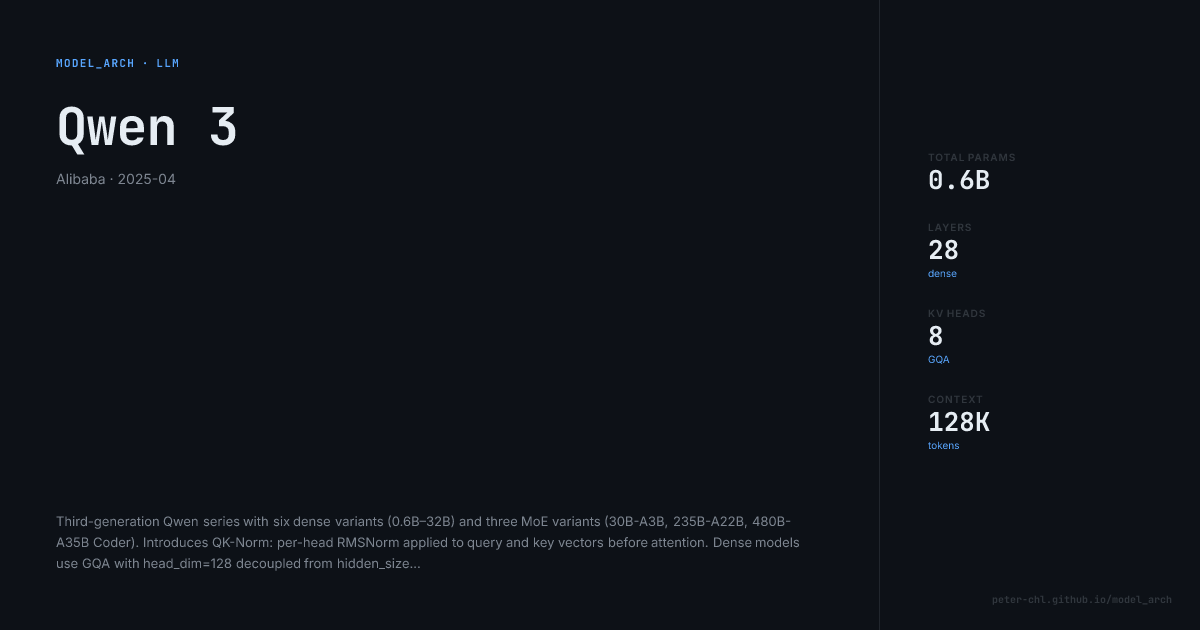
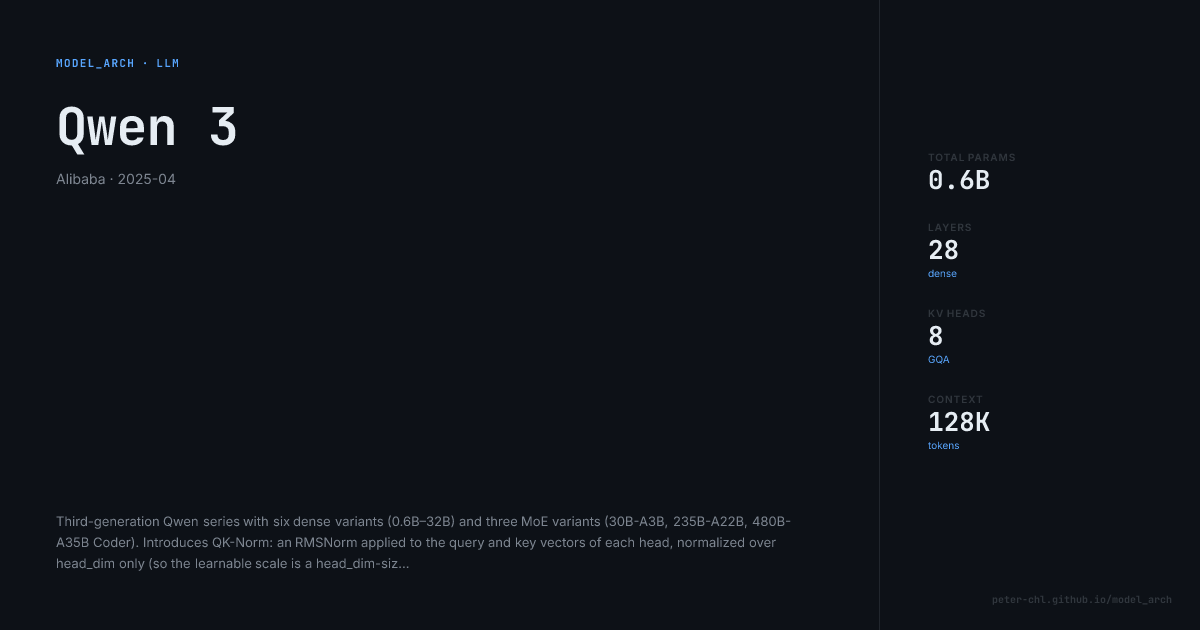
Explain RoPE and QK-Norm properly on Qwen3
QK-Norm was named in Qwen3's description but never modeled: it had no
config field, contributed no parameters, and had no formula anywhere.
RoPE was worse — "RoPE + YaRN" was an inert config string, and the GQA
explanation jumped from the Q/K/V projections straight to
softmax(QK^T/sqrt(d))V with no mention of where position enters.

- Add qk_norm, attention_bias, rope_theta, native_seq_len to ModelConfig
- Add qk_norm and rope component types with full derivations: QK-Norm as
  per-head RMSNorm over head_dim (not hidden_size) applied between the
  Q/K projections and RoPE; RoPE with its frequency schedule, the 2x2
  rotation, and the relative-position property that motivates it
- Emit QK-Norm as a real attention sublayer (2 x head_dim params/layer)
  and count QKV projection bias when a model carries it
- Show RoPE in the GQA and MHA formula chains, applied to Q and K only
- Add a Positional Encoding section covering the model's theta base and,
  for YaRN models, the NTK-by-parts rescaling and why it is a
  serving-time change rather than part of the pretrained weights
- Report max_seq_len as native vs extended when the two differ, so 131072
  is no longer presented as the pretrained context
- Set the new fields across all nine Qwen3 variants and note that
  head_dim x num_heads (8192) exceeds hidden_size, leaving Q and O
  non-square

Verified in-browser: Layer 3 of the 32B shows QK-Norm at 256 params with
[…]

Changed region(s): [[0.0617, 0.8444, 0.6783, 0.9048]]

diff --git a/src/app/models/[slug]/ModelViewer.tsx b/src/app/models/[slug]/ModelViewer.tsx
@@ -13,6 +13,8 @@ import type { ModelFamily, ModelConfig, MoEConfig, MLAConfig, HybridAttentionCon
 type ComponentType =
   | "rmsnorm"
   | "layernorm"
+  | "qk_norm"
+  | "rope"
   | "gqa"
   | "mha"
   | "mla"
@@ -134,6 +136,58 @@ const operationDetails: Record<
       },
     ],
   },
+  qk_norm: {
+    title: "QK-Norm (Query–Key Normalization)",
+    operation:
+      "Applies RMSNorm to the query and key vectors of each head, after the Q/K projections but before RoPE. Normalization is over the head dimension only — each head is normalized independently, so the learnable scale is a vector of size head_dim, not hidden_size. This bounds the magnitude of Q and K, keeping the pre-softmax logits QKᵀ/√d_h from growing large enough to saturate the softmax and destabilize training. Qwen3 adopts QK-Norm and, in exchange, drops the Q/K/V projection biases that Qwen2 carried.",
+    formula: [
+      { type: "text", content: "Project, split into heads, then normalize each head independently:" },
+      {
+        type: "latex",
+        content: String.raw`\begin{aligned}
+\mathbf{Q} &= \text{RMSNorm}_{d_h}\bigl(\text{reshape}(\mathbf{x} W_Q)\bigr) \cdot \boldsymbol{\gamma}_q \quad &\in \mathbb{R}^{B \times h \times S \times d_h} \\
+\mathbf{K} &= \text{RMSNorm}_{d_h}\bigl(\text{reshape}(\mathbf{x} W_K)\bigr) \cdot \boldsymbol{\gamma}_k \quad &\in \mathbb{R}^{B \times h_{kv} \times S \times d_h}
+\end{aligned}`,
+      },
+      { type: "text", content: "Normalization is over the last axis (head_dim) only:" },
+      {
+        type: "latex",
+        content: String.raw`\text{RMSNorm}_{d_h}(\mathbf{u}) = \frac{\mathbf{u}}{\sqrt{\frac{1}{d_h}\sum_{j=1}^{d_h} u_j^2 + \epsilon}}`,
+      },
+      {
+        type: "text",
+        content:
+          "γ_q and γ_k are learnable vectors of size [head_dim], shared across all heads — 2 × head_dim parameters per layer, a negligible cost. V is left un-normalized. RoPE is applied after this step.",
+      },
+    ],
+  },
+  rope: {
+    title: "RoPE (Rotary Position Embedding)",
+    operation:
+      "Injects position by rotating each consecutive pair of dimensions in Q and K by an angle proportional to the token's absolute position. Because a dot product between two rotated vectors depends only on the difference of their rotation angles, attention scores end up a function of relative position (m − n) — absolute positions are never stored, yet relative distance is encoded exactly. RoPE adds no parameters and is applied to Q and K only, never to V.",
+    formula: [
+      { type: "text", content: "Per-dimension-pair frequencies, set by the base θ (rope_theta):" },
+      {
+        type: "latex",
+        content: String.raw`\theta_i = \theta_{\text{base}}^{-2i/d_h}, \qquad i = 0, 1, \dots, \tfrac{d_h}{2}-1`,
+      },
+      { type: "text", content: "Each 2D pair at position m is rotated by m·θᵢ:" },
+      {
+        type: "latex",
+        content: String.raw`\begin{pmatrix} x'_{2i} \\ x'_{2i+1} \end{pmatrix} = \begin{pmatrix} \cos m\theta_i & -\sin m\theta_i \\ \sin m\theta_i & \cos m\theta_i \end{pmatrix} \begin{pmatrix} x_{2i} \\ x_{2i+1} \end{pmatrix}`,
+      },
+      { type: "text", content: "The relative-position property that makes this work:" },
+      {
+        type: "latex",
+        content: String.raw`\langle \text{RoPE}(\mathbf{q}, m),\; \text{RoPE}(\mathbf{k}, n) \rangle = f(\mathbf{q}, \mathbf{k},\, m - n)`,
+      },
+      {
+        type: "text",
+        content:
+          "Low i gives high-frequency rotations that resolve nearby tokens; high i gives long-wavelength rotations that carry long-range position. A larger θ_base lengthens all wavelengths, which is why long-context models raise it (Qwen3 uses 1,000,000 vs 10,000 in the original formulation).",
+      },
+    ],
+  },
   mha: {
     title: "Multi-Head Attention",
     operation:
@@ -146,6 +200,14 @@ const operationDetails: Record<
 \mathbf{K} &= \mathbf{x} \cdot W_K \quad &\in \mathbb{R}^{B \times S \times (h \cdot d_h)} \\
 \mathbf{V} &= \mathbf{x} \cdot W_V \quad &\in \mathbb{R}^{B \times S \times (h \cdot d_h)}
 \end{aligned}`,
+      },
+      {
+        type: "text",
+        content: "Q and K are rotated by RoPE before the attention product (V is not):",
+      },
+      {
+        type: "latex",
+        content: String.raw`\mathbf{Q} \leftarrow \text{RoPE}(\mathbf{Q}), \qquad \mathbf{K} \leftarrow \text{RoPE}(\mathbf{K})`,
       },
       {
         type: "latex",
@@ -176,12 +238,26 @@ const operationDetails: Record<
           "Each KV head is shared across (h / h_kv) query heads, reducing KV cache by that factor.",
       },
       {
+        type: "text",
+        content:
+          "Position is then injected by rotating Q and K with RoPE (V is left untouched), so the attention logits depend on relative offset m − n:",
+      },
+      {
+        type: "latex",
+        content: String.raw`\mathbf{Q} \leftarrow \text{RoPE}(\mathbf{Q}), \qquad \mathbf{K} \leftarrow \text{RoPE}(\mathbf{K})`,
+      },
+      {
         type: "latex",
         content: String.raw`\text{Attention}(Q, K, V) = \text{softmax}\!\left(\frac{QK^\top}{\sqrt{d_h}}\right) V`,
       },
       {
         type: "latex",
         content: String.raw`\text{Output} = \text{Concat}(\text{all heads}) \cdot W_O`,
+      },
+      {
+        type: "text",
+        content:
+          "Models using QK-Norm insert a per-head RMSNorm on Q and K between the projections and RoPE — see the QK-Norm sublayer for details.",
       },
     ],
   },
@@ -497,17 +573,39 @@ function calcGQAAttention(c: ModelConfig): SubLayerInfo {
   const k = d * kvh * dh;
   const v = d * kvh * dh;
   const o = h * dh * d;
+  const bias = c.attention_bias ? h * dh + 2 * kvh * dh : 0;
   const isGQA = kvh < h;
   return {
     name: isGQA ? `GQA Attention (${h}h, ${kvh}kv)` : `MHA (${h} heads)`,
     component: isGQA ? "gqa" : "mha",
     dims: `Q:[${d}→${h * dh}] K:[${d}→${kvh * dh}] V:[${d}→${kvh * dh}] O:[${h * dh}→${d}]`,
-    params: q + k + v + o,
+    params: q + k + v + o + bias,
     paramBreakdown: [
       { label: "W_q", formula: fmul(d, h * dh), value: q },
       { label: "W_k", formula: fmul(d, kvh * dh), value: k },
       { label: "W_v", formula: fmul(d, kvh * dh), value: v },
       { label: "W_o", formula: fmul(h * dh, d), value: o },
+      ...(c.attention_bias
+        ? [{
+            label: "b_q + b_k + b_v (bias)",
+            formula: `${h * dh} + ${kvh * dh} + ${kvh * dh} = ${formatNumber(bias)}`,
+            value: bias,
+          }]
+        : []),
+    ],
+  };
+}
+
+function calcQKNorm(c: ModelConfig): SubLayerInfo {
+  const { head_dim: dh } = c;
+  return {
+    name: "QK-Norm (per-head RMSNorm on Q, K)",
+    component: "qk_norm",
+    dims: `q_norm:[${dh}] k_norm:[${dh}]`,
+    params: 2 * dh,
+    paramBreakdown: [
+      { label: "γ_q (q_norm)", formula: `${dh}`, value: dh },
+      { label: "γ_k (k_norm)", formula: `${dh}`, value: dh },
     ],
   };
 }
@@ -723,15 +821,18 @@ function generateLayers(c: ModelConfig): LayerInfo[] {
       attn = calcGQAAttention(c);
     }
     const ffn = isMoE ? calcMoEFFN(c, c.moe!) : calcDenseFFN(c);
+    // QK-Norm sits inside the attention block, between the Q/K projections and RoPE
+    const qkNorm = c.qk_norm && !c.mla ? calcQKNorm(c) : null;
     layers.push({
       index: idx++,
       name: `Layer ${i}${attnLabel}`,
       type: "transformer",
       variant: isMoE ? "moe" : "dense",
-      params: attn.params + ffn.params + norm.params * 2,
+      params: attn.params + ffn.params + norm.params * 2 + (qkNorm?.params ?? 0),
       sublayers: [
         { ...norm, name: `${c.norm} (pre-attn)` },
         attn,
+        ...(qkNorm ? [qkNorm] : []),
         { ...norm, name: `${c.norm} (pre-FFN)` },
         ffn,
       ],
@@ -1640,10 +1741,15 @@ export default function ModelViewer({ model }: { model: ModelFamily }) {
     ...(config.deltanet ? [] : config.num_kv_heads > 0 ? [["KV heads", config.num_kv_heads.toString()]] : []),
     ...(config.deltanet ? [] : [["Head dim", config.head_dim.toString()]]),
     ["FFN dim", formatNumber(config.intermediate_size)],
-    ["Max seq len", formatNumber(config.max_seq_len)],
+    ["Max seq len", config.native_seq_len
+      ? `${formatNumber(config.native_seq_len)} native / ${formatNumber(config.max_seq_len)} extended`
+      : formatNumber(config.max_seq_len)],
     ["Norm", config.norm],
     ["Activation", config.activation],
     ["Pos encoding", config.pos_encoding],
+    ...(config.rope_theta ? [["RoPE θ base", formatNumber(config.rope_theta)]] : []),
+    ...(config.qk_norm !== undefined ? [["QK-Norm", config.qk_norm ? "Yes (RMSNorm over head_dim)" : "No"]] : []),
+    ...(config.attention_bias !== undefined ? [["QKV bias", config.attention_bias ? "Yes" : "No"]] : []),
     ["Tie embeddings", config.tie_embeddings ? "Yes" : "No"],
     ...(config.mla ? [
       ["KV LoRA rank", config.mla.kv_lora_rank.toString()],
@@ -1817,6 +1923,61 @@ export default function ModelViewer({ model }: { model: ModelFamily }) {
                       <p className="font-mono text-sm text-foreground">{value}</p>
                     </div>
                   ))}
+                </div>
+              </details>
+            )}
+
+            {config && /rope/i.test(config.pos_encoding) && (
+              <details className="mb-8 group">
+                <summary className="cursor-pointer text-sm font-semibold uppercase tracking-widest text-muted hover:text-foreground transition-colors">
+                  Positional Encoding — {config.pos_encoding}
+                </summary>
+                <div className="mt-4 rounded-lg border border-border bg-surface p-4">
+                  <p className="mb-3 text-xs leading-relaxed text-muted">
+                    {operationDetails.rope.operation}
+                  </p>
+                  <FormulaRenderer blocks={operationDetails.rope.formula} />
+                  {config.rope_theta && (
+                    <p className="mt-3 text-xs text-muted">
+                      This model uses θ_base = {formatNumber(config.rope_theta)}
+                      {config.head_dim ? `, giving ${config.head_dim / 2} distinct rotation frequencies across the ${config.head_dim}-dim head.` : "."}
+                    </p>
+                  )}
+                  {/yarn/i.test(config.pos_encoding) && (
+                    <div className="mt-4 border-t border-border pt-4">
+                      <p className="mb-2 text-xs font-semibold uppercase tracking-wider text-muted">
+                        YaRN Context Extension
+                      </p>
+                      <p className="mb-3 text-xs leading-relaxed text-muted">
+                        YaRN is an inference-time modification, not part of the pretrained weights — the
+                        released checkpoint is trained at the native length and YaRN is enabled in the
+                        serving config to reach the extended window. It rescales RoPE frequencies
+                        unevenly (NTK-by-parts): high-frequency dimensions, which complete many rotations
+                        within the original context, are left alone to preserve local precision, while
+                        low-frequency dimensions are interpolated by the scale factor s so they still span
+                        the longer window.
+                      </p>
+                      <FormulaRenderer
+                        blocks={[
+                          {
+                            type: "latex",
+                            content: String.raw`\theta_i' = \theta_i \left( \frac{1 - \gamma_i}{s} + \gamma_i \right), \qquad s = \frac{L_{\text{extended}}}{L_{\text{native}}}`,
+                          },
+                          {
+                            type: "text",
+                            content:
+                              "γᵢ ∈ [0,1] is a ramp over each dimension's rotation count at the native length — 1 for high-frequency dims (unchanged), 0 for low-frequency dims (fully interpolated to θᵢ/s). YaRN additionally applies a temperature correction to the attention logits to offset the entropy change from a longer context.",
+                          },
+                        ]}
+                      />
+                      {config.native_seq_len && (
+                        <p className="mt-3 text-xs text-muted">
+                          Here s = {formatNumber(config.max_seq_len)} / {formatNumber(config.native_seq_len)} ={" "}
+                          {(config.max_seq_len / config.native_seq_len).toFixed(0)}×.
+                        </p>
+                      )}
+                    </div>
+                  )}
                 </div>
               </details>
             )}

diff --git a/src/data/models/qwen-3.ts b/src/data/models/qwen-3.ts
@@ -7,7 +7,7 @@ export const qwen3: ModelFamily = {
   category: "llm",
   releaseDate: "2025-04",
   description:
-    "Third-generation Qwen series with six dense variants (0.6B–32B) and three MoE variants (30B-A3B, 235B-A22B, 480B-A35B Coder). Introduces QK-Norm: per-head RMSNorm applied to query and key vectors before attention. Dense models use GQA with head_dim=128 decoupled from hidden_size; embedding weights are tied in the three smaller sizes (0.6B–4B). All MoE variants route over 128 or 160 experts with 8 active per token, applying MoE across every layer with no dense-FFN bypass. Context extended to 128K tokens via YaRN. Dense and instruct variants support thinking (chain-of-thought) and non-thinking mode switching at inference time.",
+    "Third-generation Qwen series with six dense variants (0.6B–32B) and three MoE variants (30B-A3B, 235B-A22B, 480B-A35B Coder). Introduces QK-Norm: an RMSNorm applied to the query and key vectors of each head, normalized over head_dim only (so the learnable scale is a head_dim-sized vector, not hidden_size) and inserted between the Q/K projections and RoPE. This replaces the Q/K/V projection biases that Qwen2 carried, bounding the pre-softmax logits so the softmax cannot saturate. Dense models use GQA with head_dim=128 decoupled from hidden_size — for the 32B, 64 heads × 128 = 8192 against a hidden size of 5120, so the Q and O projections are not square. All MoE variants route over 128 or 160 experts with 8 active per token, applying MoE across every layer with no dense-FFN bypass; embedding weights are tied in the three smaller sizes (0.6B–4B). RoPE uses a θ base of 1,000,000, and the natively pretrained 32,768-token context extends to 131,072 with YaRN enabled at inference — YaRN is a serving-time rescaling, not baked into the released weights. Dense and instruct variants support thinking (chain-of-thought) and non-thinking mode switching at inference time.",
   links: [
     { label: "Paper", url: "https://arxiv.org/abs/2505.09388" },
     { label: "HuggingFace", url: "https://huggingface.co/Qwen/Qwen3-235B-A22B" },
@@ -28,9 +28,13 @@ export const qwen3: ModelFamily = {
         head_dim: 128,
         intermediate_size: 3072,
         max_seq_len: 131072,
+        native_seq_len: 32768,
         norm: "RMSNorm",
         activation: "SwiGLU",
         pos_encoding: "RoPE + YaRN",
+        rope_theta: 1000000,
+        qk_norm: true,
+        attention_bias: false,
         tie_embeddings: true,
       },
     },
@@ -47,9 +51,13 @@ export const qwen3: ModelFamily = {
         head_dim: 128,
         intermediate_size: 6144,
         max_seq_len: 131072,
+        native_seq_len: 32768,
         norm: "RMSNorm",
         activation: "SwiGLU",
         pos_encoding: "RoPE + YaRN",
+        rope_theta: 1000000,
+        qk_norm: true,
+        attention_bias: false,
         tie_embeddings: true,
       },
     },
@@ -66,9 +74,13 @@ export const qwen3: ModelFamily = {
         head_dim: 128,
         intermediate_size: 9728,
         max_seq_len: 131072,
+        native_seq_len: 32768,
         norm: "RMSNorm",
         activation: "SwiGLU",
         pos_encoding: "RoPE + YaRN",
+        rope_theta: 1000000,
+        qk_norm: true,
+        attention_bias: false,
         tie_embeddings: true,
       },
     },
@@ -85,9 +97,13 @@ export const qwen3: ModelFamily = {
         head_dim: 128,
         intermediate_size: 12288,
         max_seq_len: 131072,
+        native_seq_len: 32768,
         norm: "RMSNorm",
         activation: "SwiGLU",
         pos_encoding: "RoPE + YaRN",
+        rope_theta: 1000000,
+        qk_norm: true,
+        attention_bias: false,
         tie_embeddings: false,
       },
     },
@@ -104,9 +120,13 @@ export const qwen3: ModelFamily = {
         head_dim: 128,
         intermediate_size: 17408,
         max_seq_len: 131072,
+        native_seq_len: 32768,
         norm: "RMSNorm",
         activation: "SwiGLU",
         pos_encoding: "RoPE + YaRN",
+        rope_theta: 1000000,
+        qk_norm: true,
+        attention_bias: false,
         tie_embeddings: false,
       },
     },
@@ -123,9 +143,13 @@ export const qwen3: ModelFamily = {
         head_dim: 128,
         intermediate_size: 25600,
         max_seq_len: 131072,
+        native_seq_len: 32768,
         norm: "RMSNorm",
         activation: "SwiGLU",
         pos_encoding: "RoPE + YaRN",
+        rope_theta: 1000000,
+        qk_norm: true,
+        attention_bias: false,
         tie_embeddings: false,
       },
     },
@@ -143,9 +167,13 @@ export const qwen3: ModelFamily = {
         head_dim: 128,
         intermediate_size: 768,
         max_seq_len: 131072,
+        native_seq_len: 32768,
         norm: "RMSNorm",
         activation: "SwiGLU",
         pos_encoding: "RoPE + YaRN",
+        rope_theta: 1000000,
+        qk_norm: true,
+        attention_bias: false,
         tie_embeddings: false,
         moe: {
           num_experts: 128,
@@ -170,9 +198,13 @@ export const qwen3: ModelFamily = {
         head_dim: 128,
         intermediate_size: 1536,
         max_seq_len: 131072,
+        native_seq_len: 32768,
         norm: "RMSNorm",
         activation: "SwiGLU",
         pos_encoding: "RoPE + YaRN",
+        rope_theta: 1000000,
+        qk_norm: true,
+        attention_bias: false,
         tie_embeddings: false,
         moe: {
           num_experts: 128,
@@ -197,9 +229,13 @@ export const qwen3: ModelFamily = {
         head_dim: 128,
         intermediate_size: 2560,
         max_seq_len: 131072,
+        native_seq_len: 32768,
         norm: "RMSNorm",
         activation: "SwiGLU",
         pos_encoding: "RoPE + YaRN",
+        rope_theta: 1000000,
+        qk_norm: true,
+        attention_bias: false,
         tie_embeddings: false,
         moe: {
           num_experts: 160,

diff --git a/src/data/models/types.ts b/src/data/models/types.ts
@@ -42,6 +42,13 @@ export interface ModelConfig {
   activation: string;
   pos_encoding: string;
   tie_embeddings: boolean;
+  // RMSNorm applied per-head to Q and K before RoPE (normalized over head_dim)
+  qk_norm?: boolean;
+  // Bias terms on the Q/K/V projections (Qwen2 had these; Qwen3 dropped them for qk_norm)
+  attention_bias?: boolean;
+  rope_theta?: number;
+  // Pretrained context length, when max_seq_len reflects an extended (e.g. YaRN) window
+  native_seq_len?: number;
   moe?: MoEConfig;
   mla?: MLAConfig;
   hybrid_attn?: HybridAttentionConfig;
